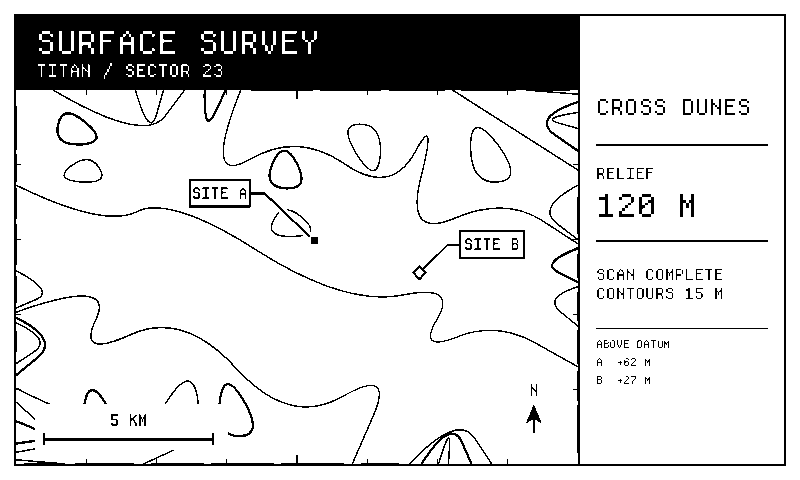
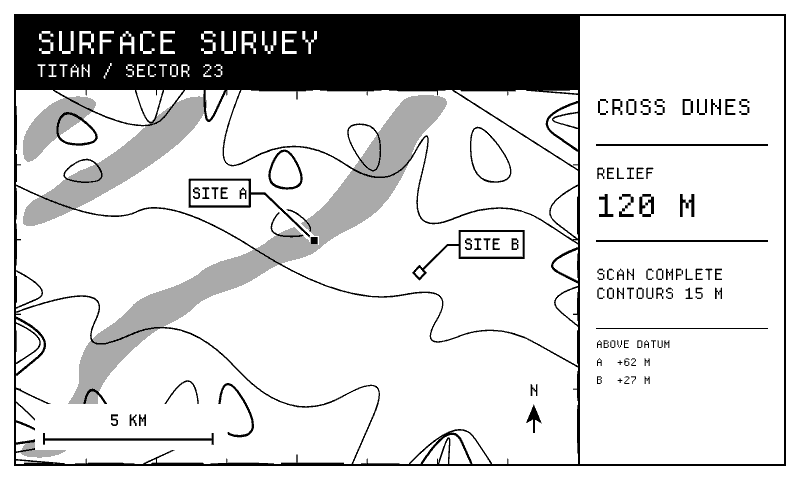
Keep Surface Survey relief on 1-bit displays

diff --git a/space-terminal/tests/plugin_spec.rb b/space-terminal/tests/plugin_spec.rb
@@ -22,7 +22,10 @@ RSpec.describe 'Space Terminal' do
             (() => {
               const maps = [...document.querySelectorAll('.terminal-fraction-survey-map img')];
               const visible = maps.filter(map => map.getBoundingClientRect().width > 0);
-              return visible.length === 1 && visible[0].complete && visible[0].naturalWidth > 0;
+              if (visible.length !== 1 || !visible[0].complete || visible[0].naturalWidth === 0) return false;
+              const svg = atob(visible[0].src.split(',')[1]);
+              return svg.includes('fill="url(#survey-deep-stipple)"') ||
+                svg.includes('fill="#aaa"') || svg.includes('fill="#bbb"');
             })()
           JS
         end

diff --git a/space-terminal/README.md b/space-terminal/README.md
@@ -34,10 +34,9 @@ fills its panel in every slot.
 | **Horizontal half, landscape** | **Vertical half, landscape** |
 | ![Boarding Pass across a wide TRMNL X half slot](docs/screenshots/boarding-pass-x-half-horizontal.png) | ![Mission Brief in a tall TRMNL X half slot](docs/screenshots/mission-brief-x-half-vertical.png) |
 
-These are local renders. The first seven previews use the 800 × 480 OG
-profile. The full-screen X landscape layout fits the original 5:3 artwork
-inside the panel. Survey maps use contour lines at 1 bit and add up to two
-bands of gray relief as the palette allows.
+These are local renders. The first seven previews are 800 × 480. The full-screen X landscape layout fits the original 5:3 artwork
+inside the panel. Survey maps use black stippling for shaded slopes on 1-bit
+displays and up to two gray relief tones on displays that support them.
 
 ## How it works
 
